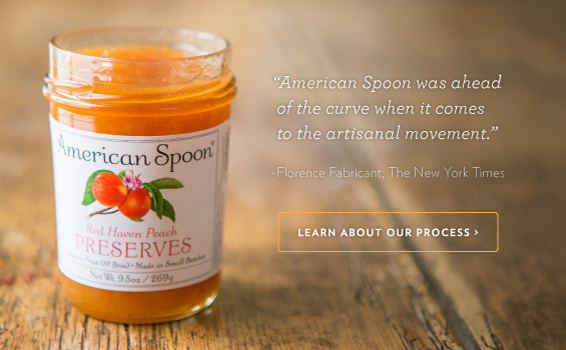
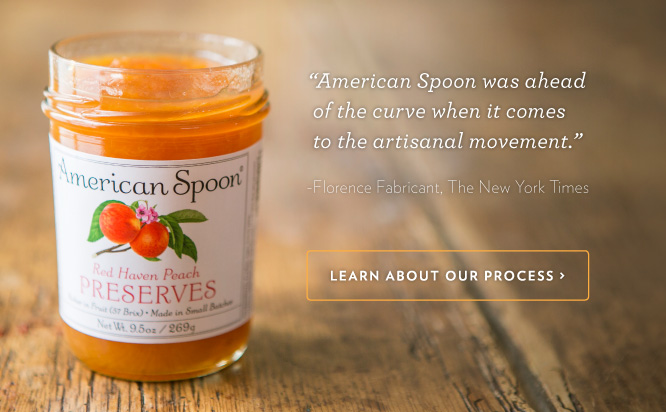
Update Home page mantle
See issue #38 (https://github.com/lstanard/american-spoon/issues/38)

diff --git a/_sass/_pages/_home.scss b/_sass/_pages/_home.scss
@@ -4,6 +4,15 @@
 
 .page-home {
 
+	#header {
+		@include box-shadow(rgba(0,0,0,.15) 0px 2px 6px);
+		z-index: $z-header;
+	}
+
+	#header.header-collapsed {
+		@include box-shadow(rgba(0,0,0,.1) 0px 2px 6px);
+	}
+
 	a.shipping-banner--link:link,
 	a.shipping-banner--link:visited {
 		display: none;
@@ -20,9 +29,9 @@
     PAGE: Home / Mantle
 -------------------------------------------------------------------*/
 
-$home-mantle-height: 700px;
-$home-mantle-break-one: $med;
-$home-mantle-break-two: $lrg;
+$home-mantle-height: 824px;
+$home-mantle-break-one: 750px;
+$home-mantle-break-two: 1200px;
 
 .home-mantle {
 	background-color: #efefef;
@@ -33,7 +42,7 @@ $home-mantle-break-two: $lrg;
 	@extend .row;
 	height: auto;
 	margin: 0 auto;
-	max-width: 1700px;
+	max-width: 1800px;
 
 	img {
 		display: block;
@@ -60,7 +69,6 @@ $home-mantle-break-two: $lrg;
 	.mantle-feature-copy {
 		height: 100%;
 		margin: 0 auto;
-		// max-width: 510px;
 		padding: 45px 3%;
 		position: relative;
 		text-align: center;
@@ -75,6 +83,14 @@ $home-mantle-break-two: $lrg;
 			padding: 0;
 			position: absolute;
 			text-align: left;
+		}
+	}
+
+	.imitate-table {
+		min-height: 300px;
+
+		@include respond($home-mantle-break-two) {
+			min-height: auto;
 		}
 	}
 
